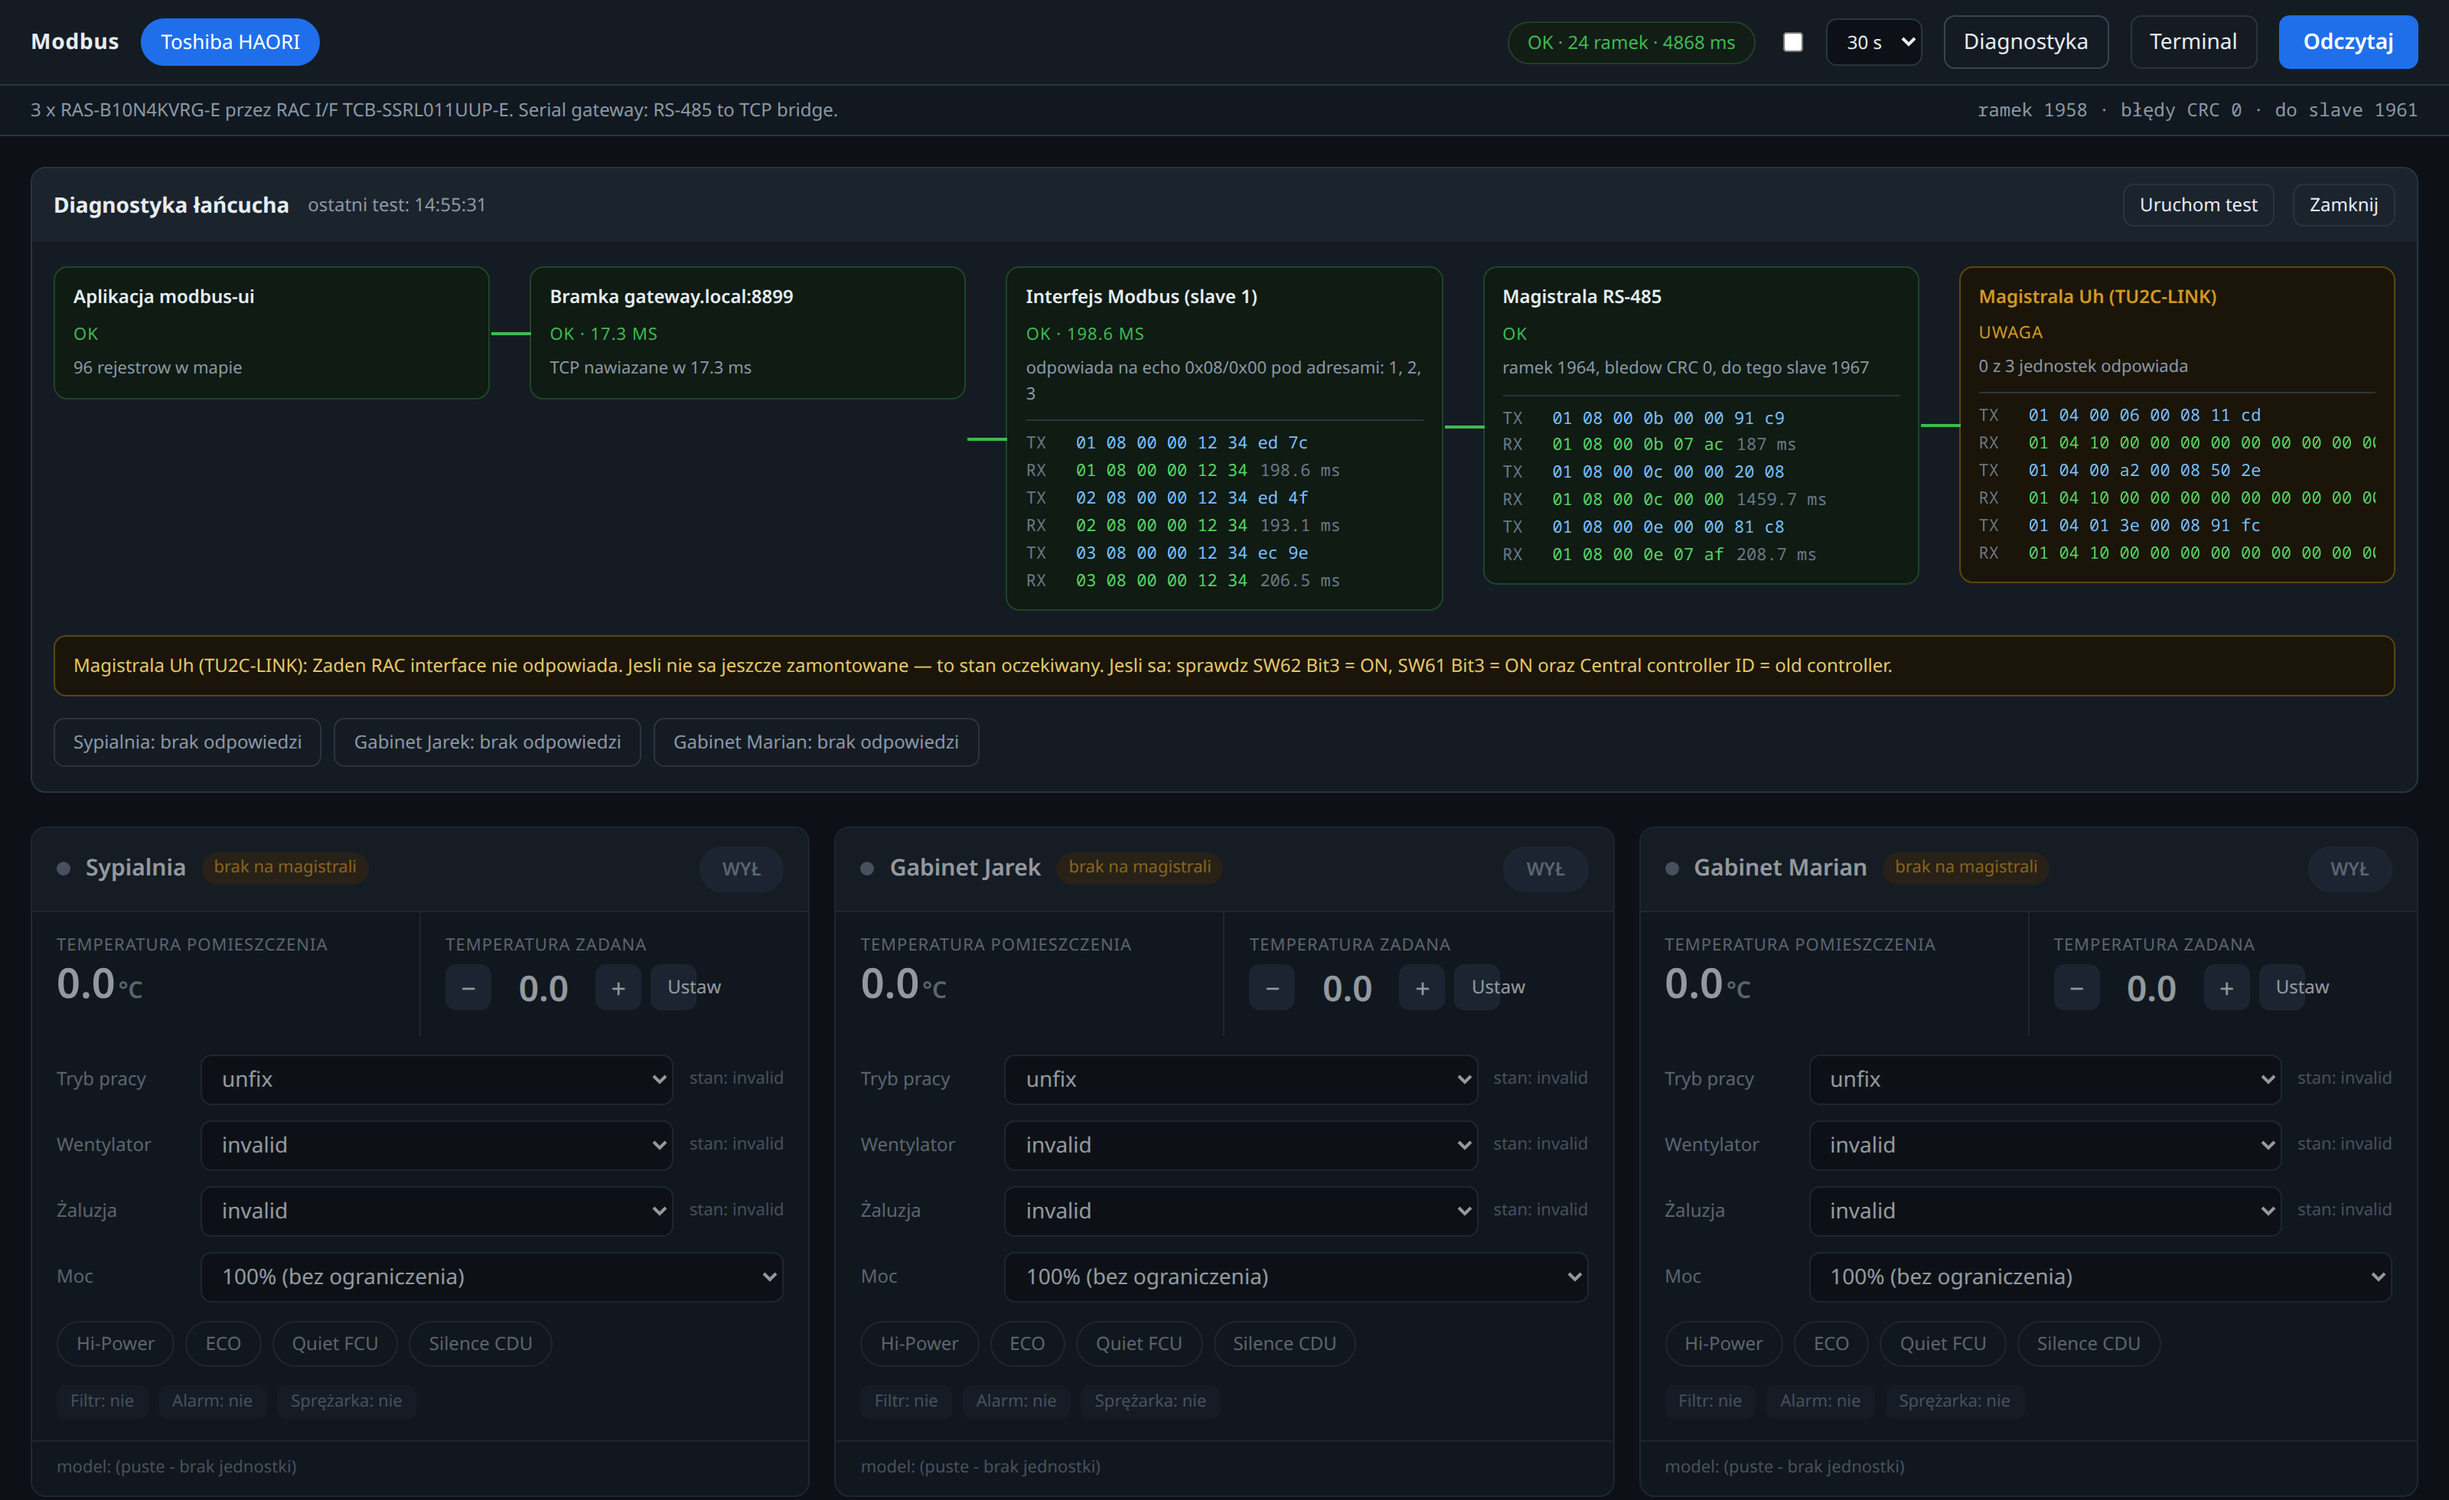
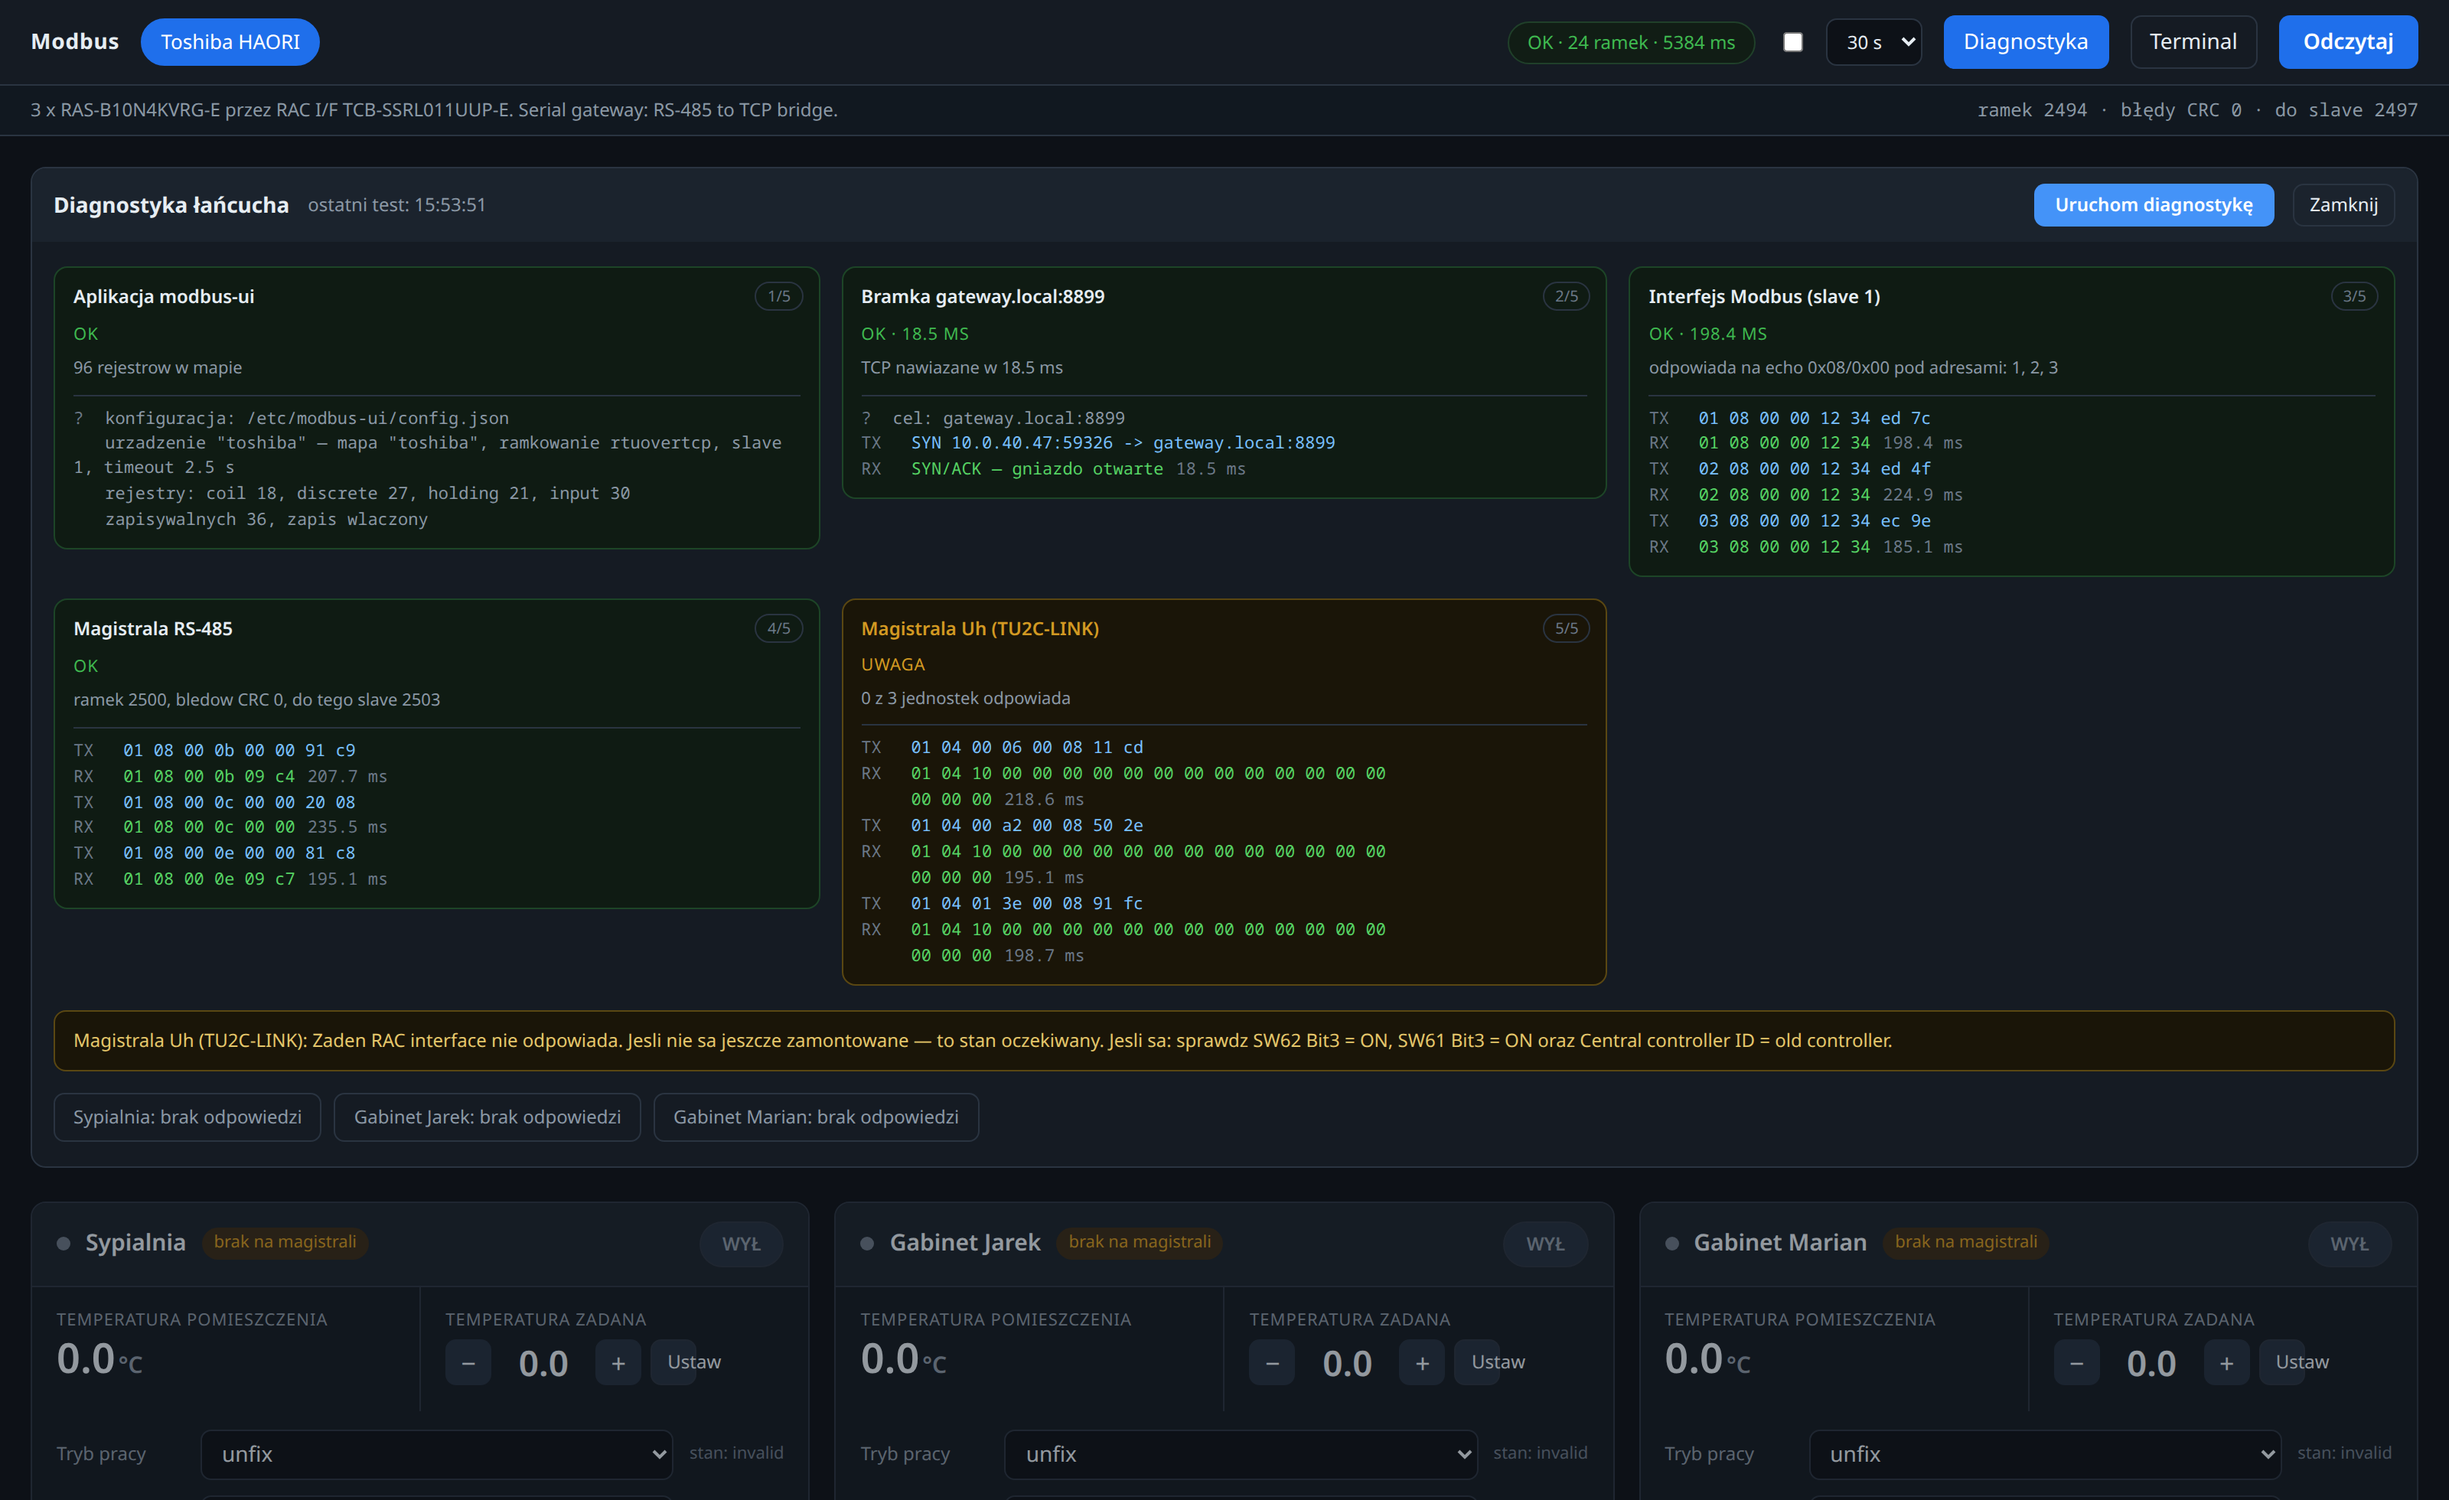
fix(trace): no scrollbars — wrap the chain onto rows, chunk hex at 16 bytes
The longest frame line needed 601 px and the tiles were 259 px wide, so two of
them carried a horizontal scrollbar and the hex was cut mid-frame.

- the chain is now a wrapping grid (auto-fit, min 440 px) instead of a single
  overflowing row: 3+2 tiles at 1600 px, 2+2+1 at 1280 px
- hex is chunked at 16 bytes per line with the continuation indented under the
  first, so a line is 48 chars and fits any tile width
- connector lines dropped (meaningless once the row wraps); each tile carries a
  1/5 .. 5/5 stage badge instead
- the frames box no longer clips: max-height and overflow removed

Verified at 1280 / 1600 / 2560 px: zero elements with scrollWidth or
scrollHeight exceeding their client box.

diff --git a/app/static/app.js b/app/static/app.js
@@ -383,6 +383,22 @@ const hhmmss = ts => {
          '.' + String(d.getMilliseconds()).padStart(3, '0');
 };
 const grp = h => (h || '').replace(/(..)/g, '$1 ').trim();
+const BPL = 16;                       // bajtow na linie — 48 znakow, mniej niz szerokosc kafelka
+function hexChunks(h) {
+  const bytes = (h || '').match(/../g) || [];
+  const out = [];
+  for (let i = 0; i < bytes.length; i += BPL) out.push(bytes.slice(i, i + BPL).join(' '));
+  return out.length ? out : [''];
+}
+function hexRows(box, label, hex, cls, ms) {
+  hexChunks(hex).forEach((chunk, i, all) => {
+    const line = el('div', 'fr ' + cls);
+    line.appendChild(el('span', 'd', i === 0 ? label : ''));
+    line.appendChild(document.createTextNode(' ' + chunk));
+    if (ms != null && i === all.length - 1) line.appendChild(el('span', 'ms', ms + ' ms'));
+    box.appendChild(line);
+  });
+}
 
 function termLine(cls, ts, body) {
   const d = el('div', 'tl ' + cls);
@@ -468,16 +484,9 @@ function frameRows(frames, ioRows) {
     box.appendChild(line);
   });
   (frames || []).forEach(f => {
-    const tx = el('div', 'fr tx');
-    tx.appendChild(el('span', 'd', 'TX'));
-    tx.appendChild(document.createTextNode(' ' + grp(f.tx)));
-    box.appendChild(tx);
+    hexRows(box, 'TX', f.tx, 'tx', null);
     if (f.ok && f.rx) {
-      const rx = el('div', 'fr rx');
-      rx.appendChild(el('span', 'd', 'RX'));
-      rx.appendChild(document.createTextNode(' ' + grp(f.rx)));
-      rx.appendChild(el('span', 'ms', f.ms + ' ms'));
-      box.appendChild(rx);
+      hexRows(box, 'RX', f.rx, 'rx', f.ms);
     } else {
       const er = el('div', 'fr err');
       er.appendChild(el('span', 'd', 'ERR'));
@@ -508,9 +517,10 @@ function traceSkeleton() {
    ['net', `Bramka ${DEV.host}:${DEV.port}`],
    ['iface', `Interfejs Modbus (slave ${DEV.slave})`],
    ['rs485', 'Magistrala RS-485'],
-   ['uh', 'Magistrala Uh (TU2C-LINK)']].forEach(([id, name]) => {
+   ['uh', 'Magistrala Uh (TU2C-LINK)']].forEach(([id, name], i, all) => {
     const n = el('div', 'node pending');
     n.dataset.id = id;
+    n.appendChild(el('span', 'no', (i + 1) + '/' + all.length));
     n.appendChild(el('span', 'nm', name));
     n.appendChild(el('span', 'st', TRACE_LBL.pending));
     n.appendChild(el('span', 'dt', ''));
@@ -562,9 +572,10 @@ async function runTrace() {
 
         if (ev.type === 'plan') {
           const chain = $('#chain');
-          ev.steps.forEach(stp => {
+          ev.steps.forEach((stp, i) => {
             const n = el('div', 'node pending');
             n.dataset.id = stp.id;
+            n.appendChild(el('span', 'no', (i + 1) + '/' + ev.steps.length));
             n.appendChild(el('span', 'nm', stp.name));
             n.appendChild(el('span', 'st', TRACE_LBL.pending));
             n.appendChild(el('span', 'dt', ''));

diff --git a/app/static/style.css b/app/static/style.css
@@ -176,18 +176,17 @@ dd{margin:0;font-family:ui-monospace,Menlo,monospace;word-break:break-all;font-s
 
 /* ---------- lancuch diagnostyczny ---------- */
 #trace{margin-bottom:22px}
-.chain{display:flex;align-items:stretch;gap:0;padding:16px 14px;overflow-x:auto}
-.node{flex:1;min-width:150px;border:1px solid var(--line);border-radius:9px;
+.chain{display:grid;gap:14px;padding:16px 14px;
+  grid-template-columns:repeat(auto-fit,minmax(440px,1fr))}
+.node{border:1px solid var(--line);border-radius:9px;
   padding:10px 12px;background:#121922;position:relative}
-.node+.node{margin-left:26px}
-.node+.node::before{content:"";position:absolute;left:-26px;top:50%;width:26px;height:2px;
-  background:var(--line2)}
+.node .no{position:absolute;top:9px;right:10px;font-size:10px;color:var(--dim);
+  border:1px solid var(--line);border-radius:99px;padding:1px 7px}
 .node.ok{border-color:#1d4527;background:#0f1b13}
 .node.warn{border-color:#5a4712;background:#1a1508}
 .node.fail{border-color:#5a2321;background:#1a1010}
 .node.skip{opacity:.5}
-.node.ok+.node::before,.node.warn+.node::before{background:var(--ok)}
-.node .nm{font-size:12px;font-weight:600;display:block;margin-bottom:4px}
+.node .nm{font-size:12px;font-weight:600;display:block;margin-bottom:4px;padding-right:34px}
 .node .st{font-size:11px;text-transform:uppercase;letter-spacing:.5px}
 .node.ok .st{color:var(--ok)} .node.warn .st{color:var(--warn)}
 .node.fail .st{color:var(--bad)} .node.skip .st{color:var(--dim)}
@@ -210,9 +209,8 @@ dd{margin:0;font-family:ui-monospace,Menlo,monospace;word-break:break-all;font-s
   border-radius:0 0 9px 9px;background:linear-gradient(90deg,transparent,var(--acc),transparent);
   animation:scan 1.1s linear infinite}
 @keyframes scan{0%{transform:translateX(-100%)}100%{transform:translateX(100%)}}
-.node.run+.node::before{background:var(--line2)}
 .frames{margin-top:8px;border-top:1px solid var(--line);padding-top:7px;
-  display:flex;flex-direction:column;gap:2px;max-height:190px;overflow:auto}
+  display:flex;flex-direction:column;gap:1px}
 .fr{font:11px/1.45 ui-monospace,SFMono-Regular,Menlo,monospace;white-space:nowrap}
 .fr .d{display:inline-block;width:26px;color:var(--dim)}
 .fr.tx{color:#79c0ff}
